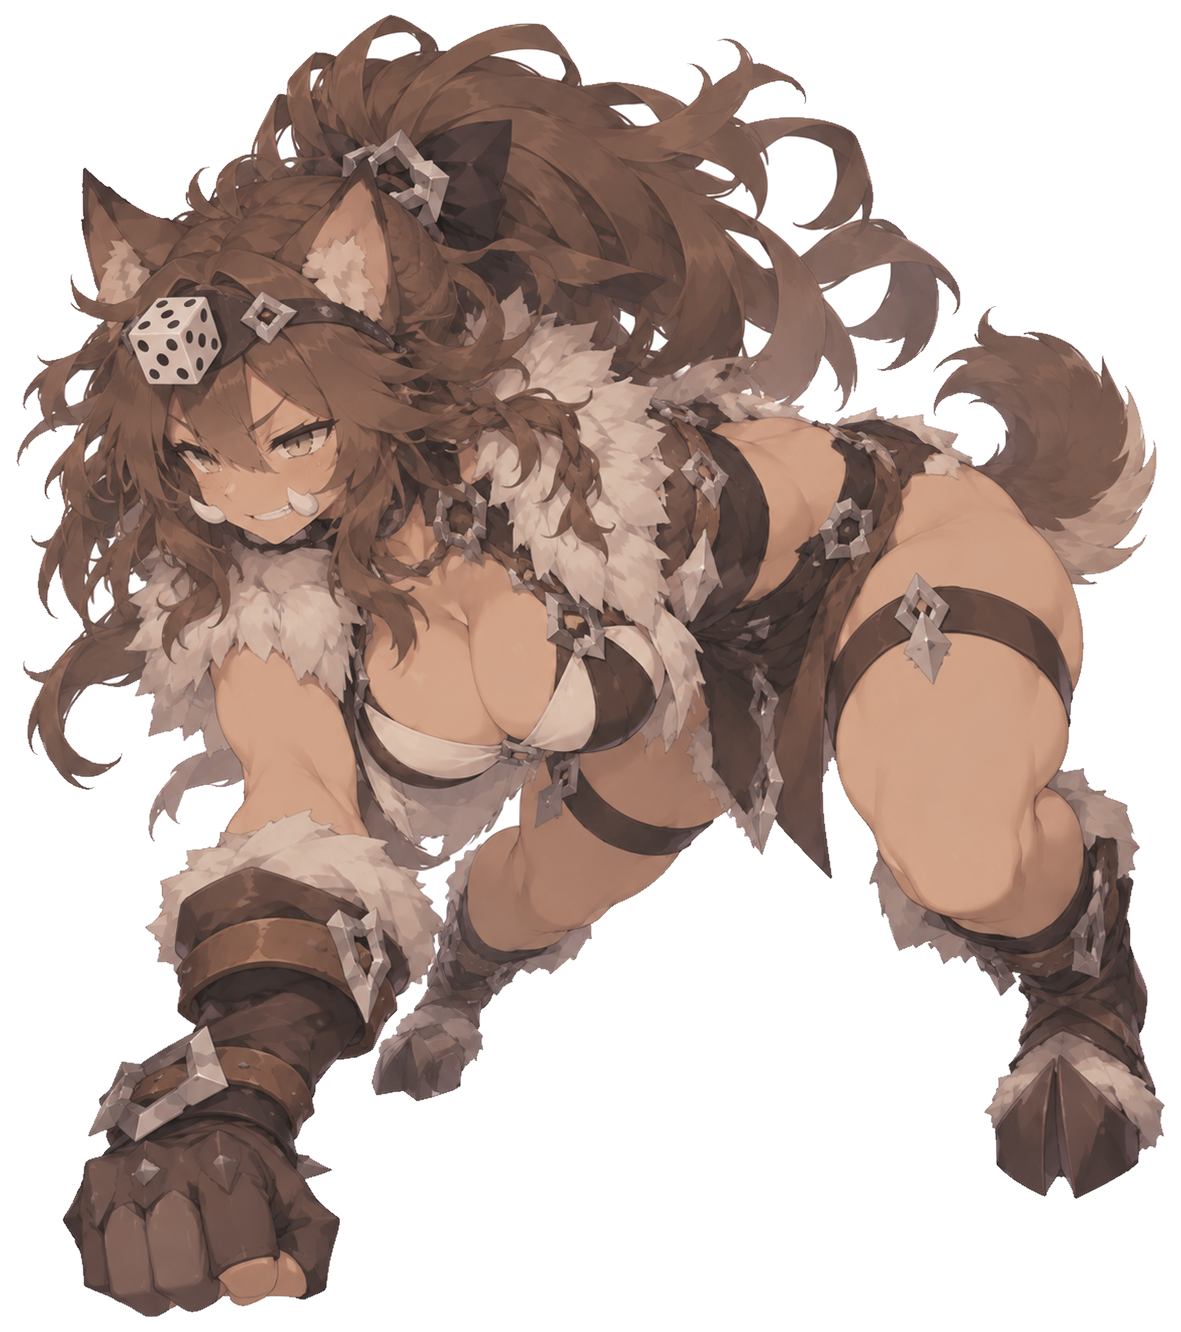
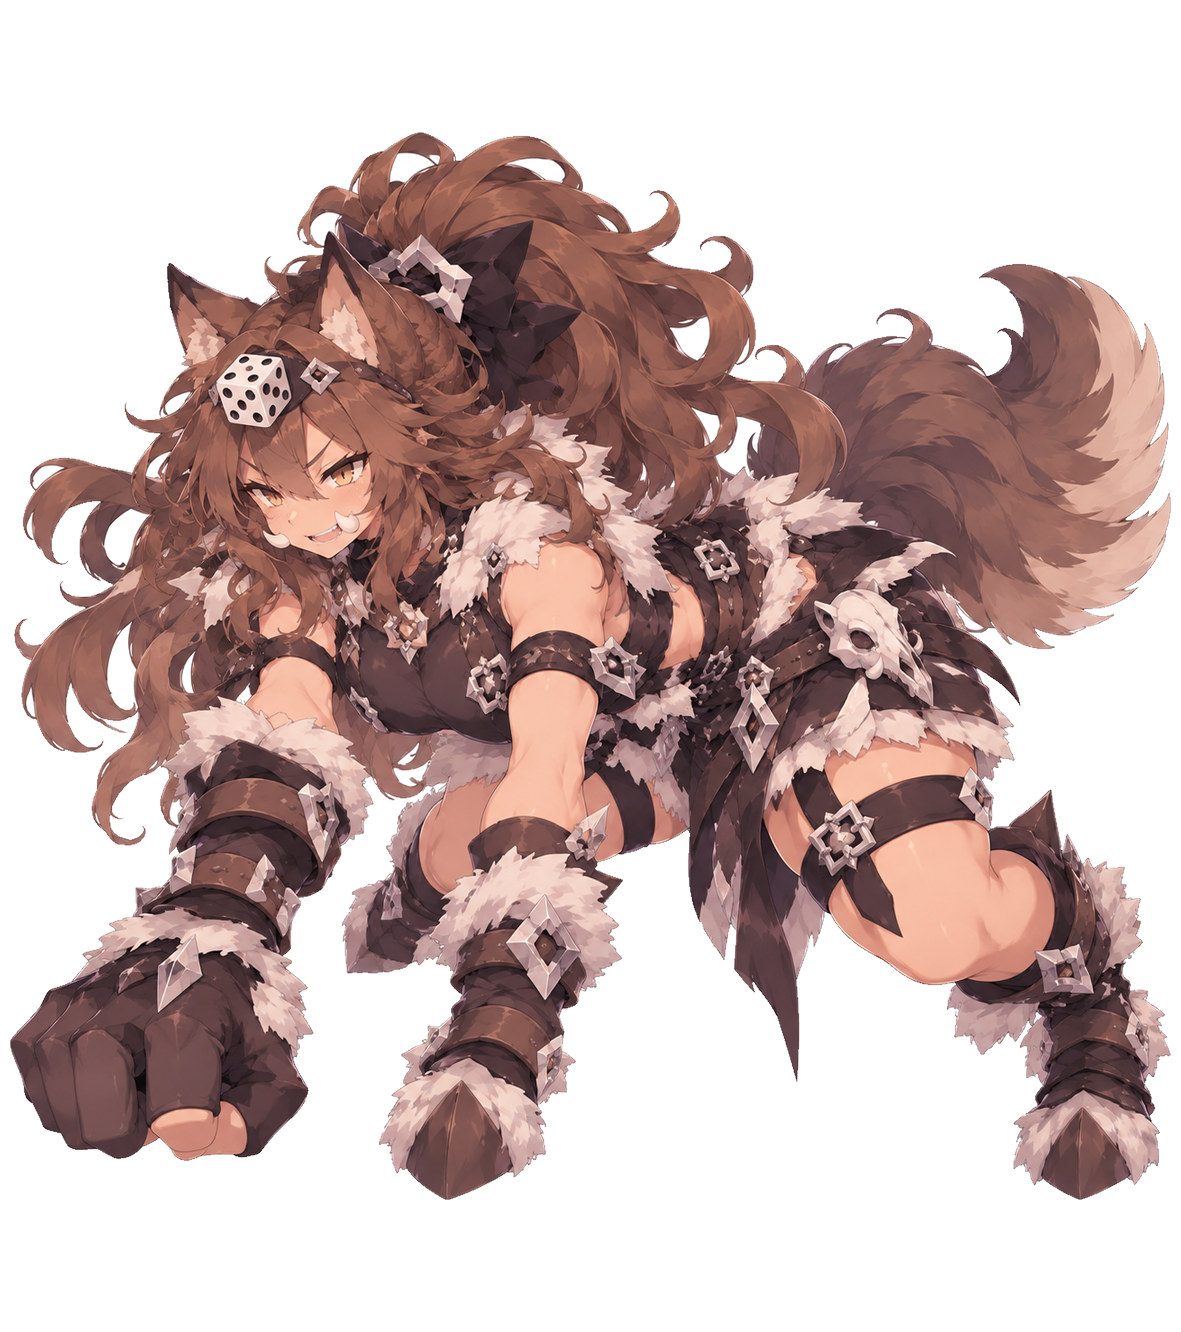
feat(art): 화풍 재작업 6차 — 좀비·암흑 늑대·멧돼지·독거미 — 대상 19종 전부 완료

diff --git a/docs/art/ART_RESOURCES.md b/docs/art/ART_RESOURCES.md
@@ -664,7 +664,7 @@ Work는 `resources/ui/` 이미지가 있으면 StyleBoxTexture로 쓰고, 없으
 | 4 | 광란의 마수 | 포즈 3종 + 헤어 변경 — 시안 3개(포즈·헤어 각각 다르게) | 대기 |
 | 5 | 타락한 기사단장 | 포즈 3종 + 헤어 변경 — 시안 3개 | 대기 |
 | 6 | 공허의 눈 | 포즈 3종 | 대기 |
-| 7 | 일반 18종 + 암흑 늑대 | 화풍 재작업(3-9) — 보스 피드백 대기 중에 진행 | 대기 |
+| 7 | 일반 18종 + 암흑 늑대 | 화풍 재작업(3-9) | ✅ 2026-10-21 완료 (19종 전부, 밝은 몬스터는 검은 배경으로 재생성, 원본 `_reference/monsters/<id>/full_before_restyle.png`) |
 | 8 | 보스 6종 표정 세트 | 포즈·헤어 확정 후 | 대기 |
 | 9 | 스킬 아이콘 61종 리디자인 | 시안 A/B/C 방향 결정 후 | 대기 |
 | 10 | 이벤트 일러스트 16종 `resources/events/<id>.png` | 2026-10-21 Work 발주(96bf013, `docs/STATUS.md` "스토리/특수 이벤트 일러스트 발주 목록"). 캐릭터 원화 그림체, 가장자리 페이드로 화면 좌하단에 표시. **비율: 특수 이벤트 8종(판정·전용) 7:6 = 슬롯 420×360 / 스토리 8종 3:2 = 슬롯 420×290** (Work 2026-10-21 확인). 스토리 8 + 판정 4 + 캐릭터 전용 4(해적·곡예사·광전사·수호자) | 대기 |
